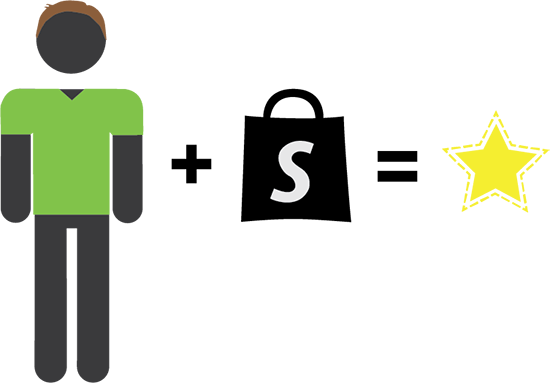
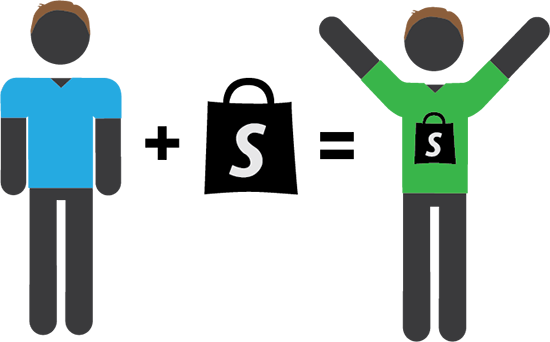
Addition of images and content update to block #6

diff --git a/index.php b/index.php
@@ -106,7 +106,7 @@
               <p>&nbsp;</p>
             </div> 
             <div class="img right">
-                <img src="img/why-stickman.png">
+                <img src="img/super-shopify.png">
             </div>   
             <div class="clear"></div>
         </div>    
@@ -119,7 +119,8 @@
             </div>   
             <div class="content right">
               <h2>Why am I a good fit for Shopify?</h2>
-              <p>I want to help Shopify grow even bigger</p>
+              <p>I believe my creativity and passion for Web Development will fit right in with Shopify's culture and employees, and my desire to solve challenging problems will greatly benefit Shopify's employees and business!</p>
+              <p>I know that Shopify loves the creativity and energy from young, fresh minds and I love talking with fellow developers about what's hip and happening in the tech and web development world. I've had the experience to do so at a few web meetups! </p>
               <p>&nbsp;</p>
             </div>
             <div class="clear"></div>
@@ -127,7 +128,7 @@
       </section>  
 
 
-      <section class="5"> 
+      <section class="7"> 
          <div class="row section7">   
             <div class="img left">
                 <img src="img/why-stickman.png">
